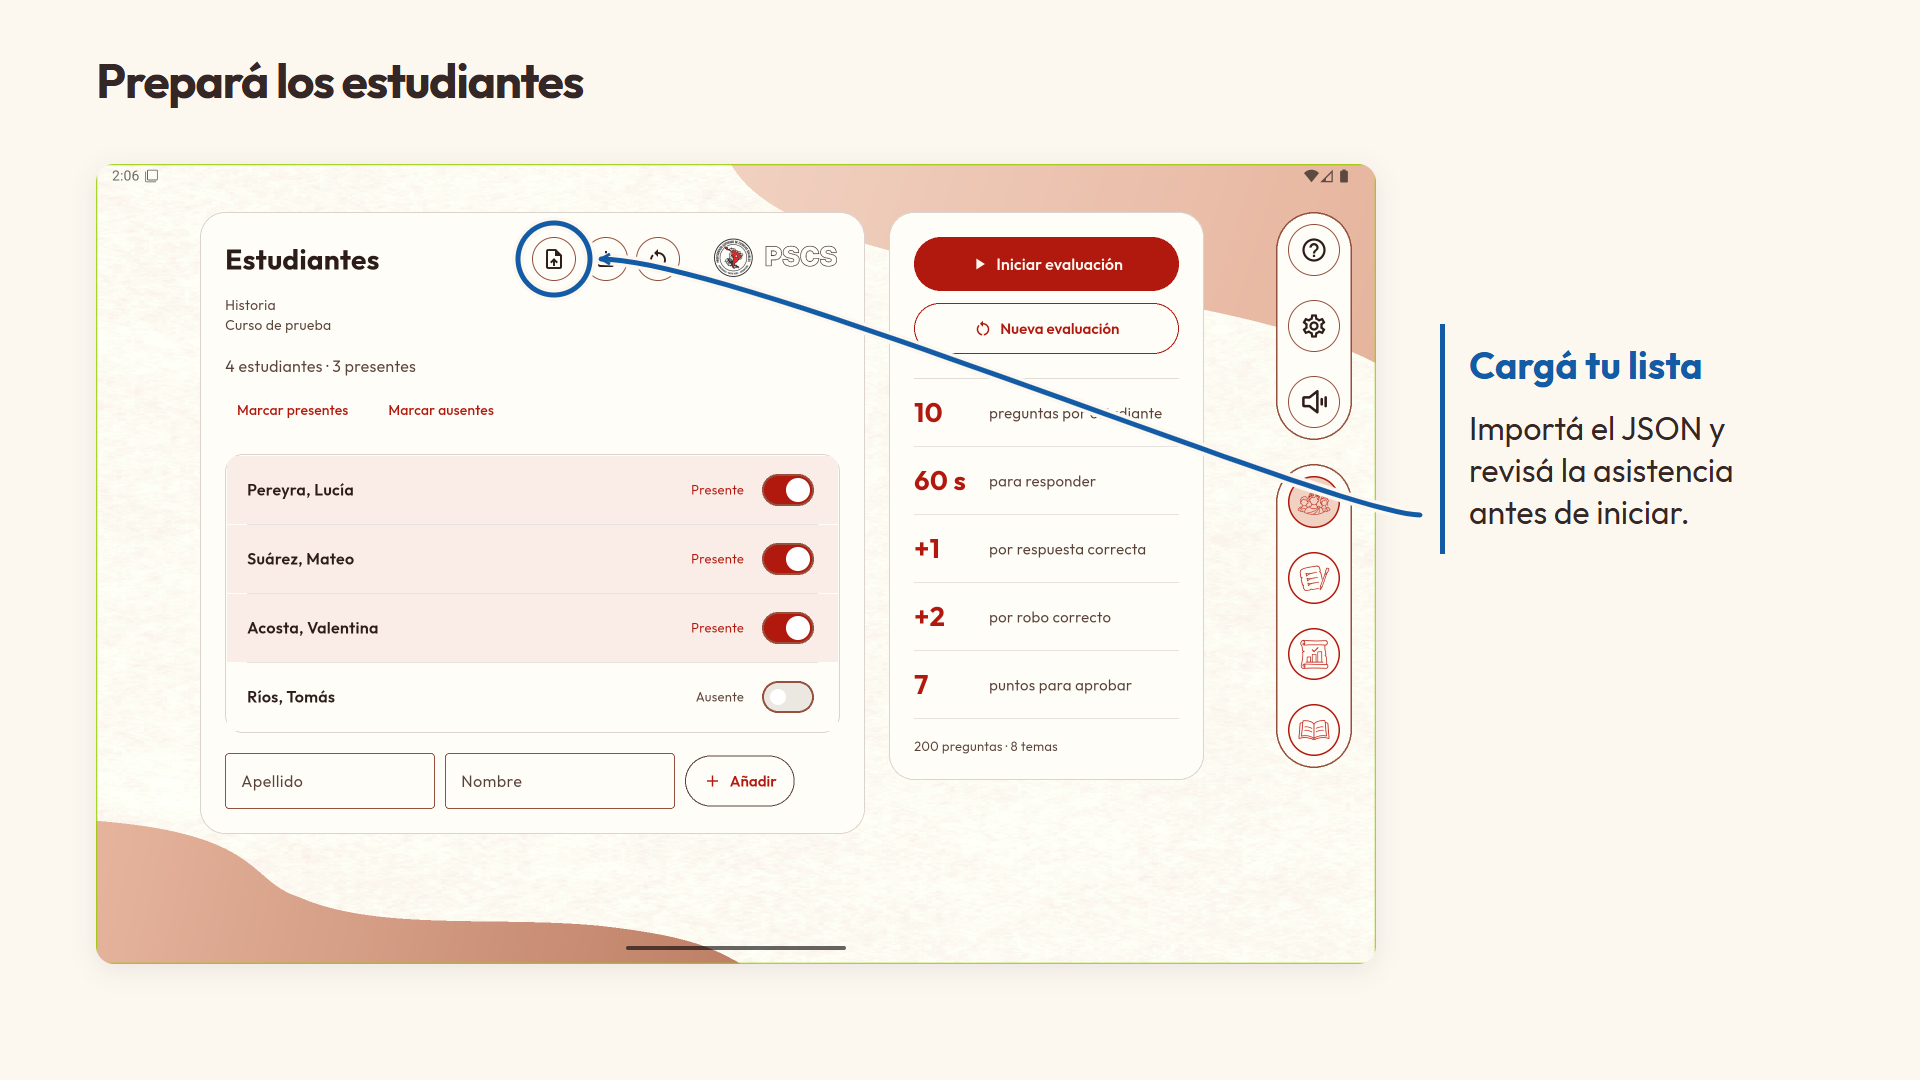
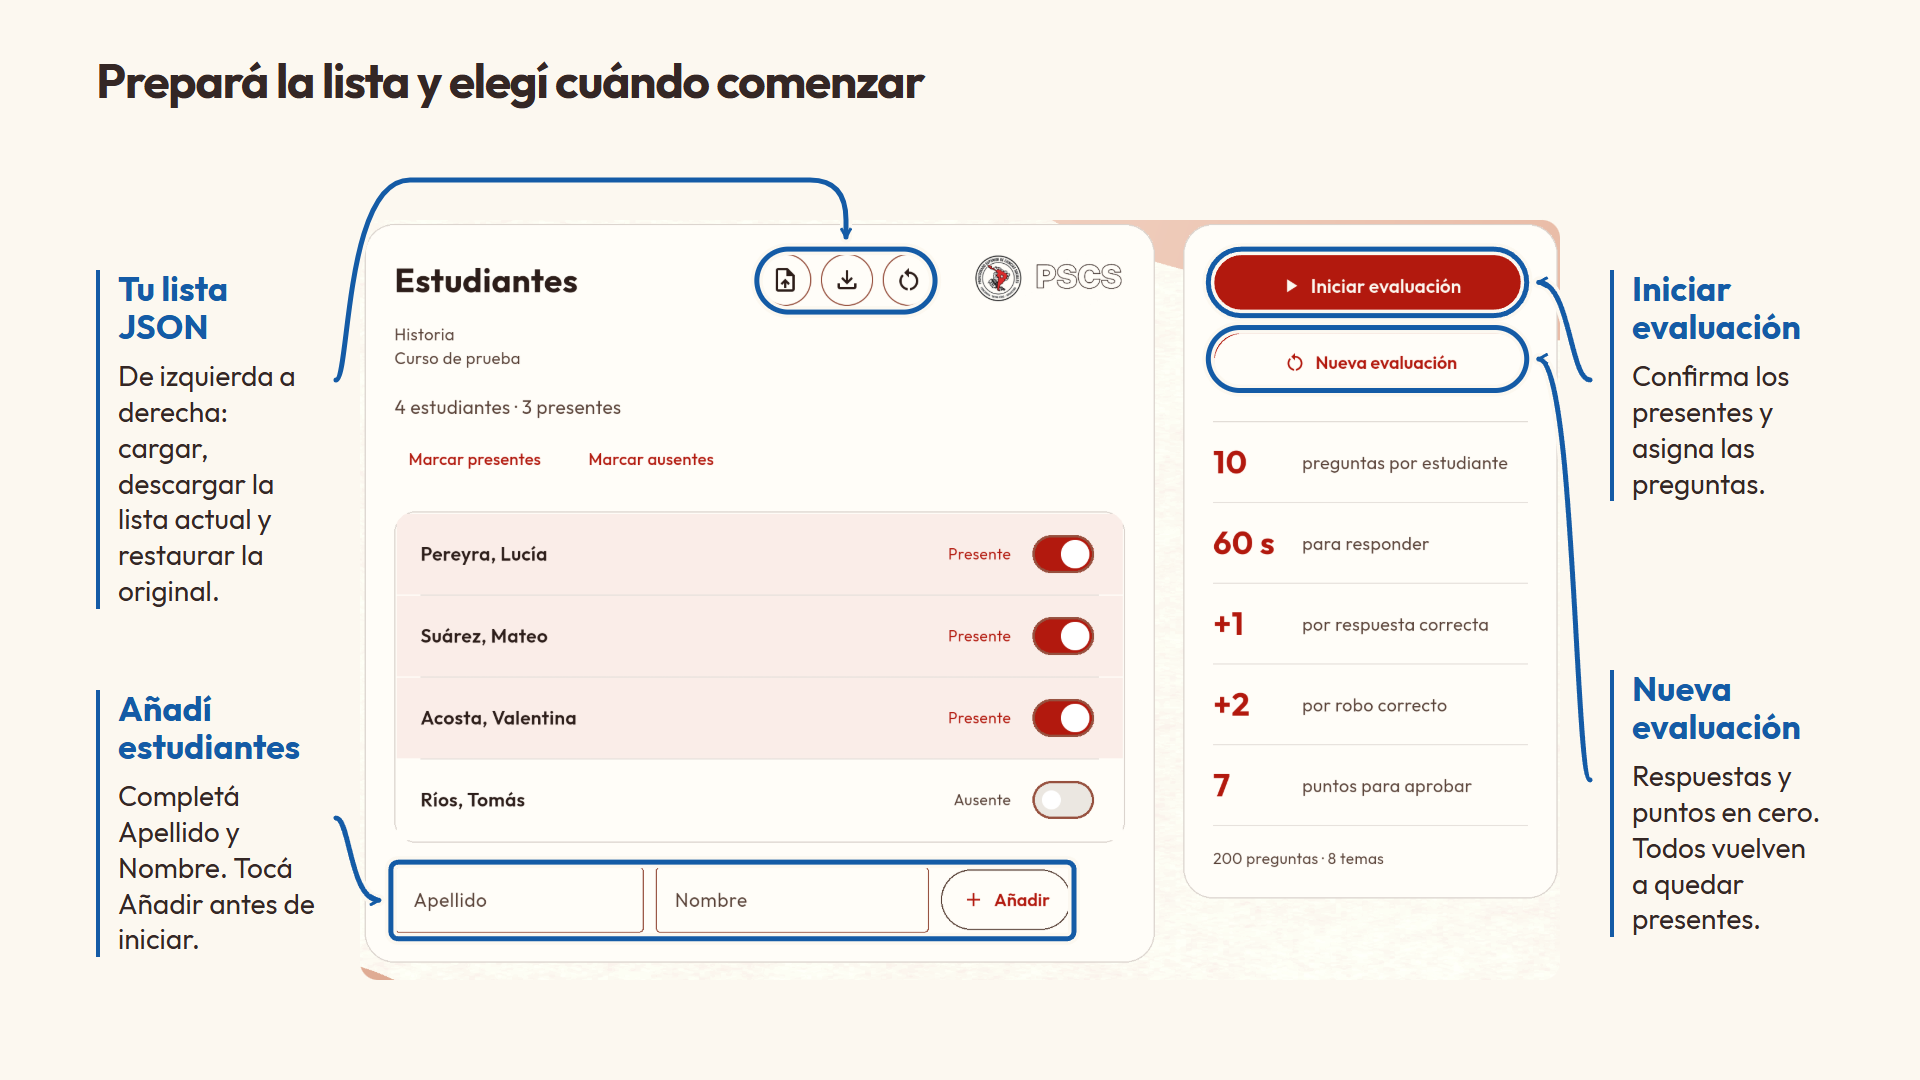
Trivia

diff --git a/README.md b/README.md
@@ -8,13 +8,21 @@ Se puede adaptar a distintas materias mediante bancos de preguntas propios. Incl
 
 Es **gratuita y funciona sin conexión**, sin cuentas, anuncios ni compras. Está diseñada para tabletas, tanto en horizontal como en vertical.
 
+## Ubicá las botoneras
+
+La cápsula de herramientas reúne **Cómo evaluar, Configuración y Sonidos**. La de navegación abre **Estudiantes, Evaluación, Resultados y Banco**; el fondo de color indica la sección seleccionada.
+
+![Botoneras ampliadas con la función de ayuda, configuración, sonido y las cuatro secciones](docs/guia-visual/herramientas-navegacion.png)
+
+Con una pregunta activa, en horizontal la navegación se acopla junto a la barra inferior. En vertical, los controles quedan al costado y los datos de quien responde se muestran sobre la pregunta. Las funciones son las mismas.
+
 ## Cómo se usa en clase
 
 ### 1. Prepará la evaluación
 
 Configurá la materia, el tema o unidad, la comisión, el docente y, si corresponde, el ayudante de cátedra. Podés elegir entre cinco paletas de colores.
 
-El **nombre corto** de la materia se usa en la cabecera; el nombre completo identifica la asignatura en los informes. La paleta se previsualiza al elegirla: **Guardar** aplica los cambios y **Cancelar** conserva la configuración anterior. Los aciertos y errores mantienen sus marcas verdes y rojas con cualquier paleta.
+El **nombre corto** de la materia se usa en la cabecera; el nombre completo identifica la asignatura en los informes. La paleta se previsualiza al elegirla: **Guardar** se habilita cuando hay cambios válidos y los aplica; **Cancelar** conserva la configuración anterior. Los aciertos y errores mantienen sus marcas verdes y rojas con cualquier paleta.
 
 ![Dónde configurar la materia, la unidad y los datos docentes](docs/guia-visual/configuracion.png)
 
@@ -22,7 +30,7 @@ El **nombre corto** de la materia se usa en la cabecera; el nombre completo iden
 
 En **Estudiantes**, revisá los nombres y marcá presentes y ausentes. Podés cargar una lista propia y corregir un nombre manteniendo presionada su fila. Antes de comenzar también se pueden eliminar estudiantes.
 
-![Cómo cargar la lista de estudiantes desde un archivo JSON](docs/guia-visual/estudiantes.png)
+![Controles de Estudiantes para cargar, descargar y restaurar la lista, añadir personas, iniciar o crear otra evaluación](docs/guia-visual/estudiantes.png)
 
 Cada fila tiene un interruptor de asistencia. Quienes figuran como ausentes quedan fuera del sorteo.
 
@@ -42,11 +50,21 @@ La app admite **hasta 20 estudiantes** y reserva **10 preguntas distintas para c
 
 Los turnos se sortean entre quienes están presentes y siguen participando, priorizando a quienes tuvieron menos preguntas. Cada estudiante recibe preguntas de su conjunto reservado.
 
+Después de iniciar la evaluación, tocá **Sortear siguiente turno** en la tarjeta central. La app elige la persona y muestra la pregunta con el reloj todavía sin iniciar.
+
+![Pantalla de sorteo con el botón Sortear siguiente turno y la explicación de quiénes participan](docs/guia-visual/sortear-turno.png)
+
 Leé el enunciado y las cuatro alternativas en voz alta. Después tocá **«Iniciar tiempo»**: hay **60 segundos** para responder, sin descontar el tiempo de lectura. El docente registra la opción elegida, de A a D.
+
+La barra muestra el **nombre**, sus **puntos acumulados**, el **avance de preguntas** y el **reloj**. **1/10** significa «primera pregunta propia del titular, de diez»; no es una nota. El botón de triángulo inicia el tiempo, el de salto registra **No contesta** y la flecha curva es **Deshacer**.
+
+![Barra antes de iniciar con siete referencias para nombre, puntos, avance, reloj, iniciar tiempo, no contesta y deshacer](docs/guia-visual/barra-lectura.png)
 
 La respuesta se registra con los **botones A–D de la barra**, usando la letra que aparece en pantalla. Las tarjetas de las alternativas son de lectura; la app baraja su orden al preparar la evaluación. Si una pregunta o su explicación ocupa más espacio, desplazá el contenido dentro de la tarjeta para leerlo completo.
 
 Mientras corre el tiempo, **tocá el reloj para pausarlo** y volvé a tocarlo para reanudar. El reloj también se pausa al salir de Evaluación, abrir la ayuda, la configuración o un informe, o dejar la app en segundo plano. Al volver, reanudalo cuando corresponda.
+
+![Comparación de la barra con tiempo en marcha y pausado, con A–D y el reloj señalados](docs/guia-visual/barra-respuesta-pausa.png)
 
 ### 3. Resolvé la respuesta y los robos
 
@@ -54,14 +72,31 @@ Si la respuesta es incorrecta, no contesta o se agota el tiempo, podés elegir a
 
 El selector ofrece estudiantes presentes que siguen participando, distintos del titular y de quienes ya intentaron robar esa pregunta. Elegí una persona y tocá **Iniciar robo**. Los robos **no tienen un nuevo cronómetro de 60 segundos** y no consumen las diez preguntas propias de quien roba. Las alternativas ya elegidas quedan marcadas y bloqueadas.
 
+Al elegir un candidato, la barra pasa a mostrar **su nombre y sus puntos**. Durante el robo conserva esos datos; al mostrar el resultado, corresponden a quien acaba de responder. El avance **1/10** sigue refiriéndose a la pregunta propia del titular.
+
+![Barra en espera de robo con selector, rayo y cierre; debajo, robo activo con una alternativa usada bloqueada](docs/guia-visual/barra-robo.png)
+
 La respuesta correcta y la explicación quedan disponibles para revisar al cerrar la pregunta. Después se puede avanzar al siguiente turno. **Deshacer** permite corregir un registro equivocado.
 
-| Control | Cuándo usarlo |
-| --- | --- |
-| **No contesta** | Registra que el titular no responde y pasa a los robos disponibles, sin esperar a que termine el reloj. |
-| **Cerrar pregunta** | Termina los robos pendientes sin ofrecer otro intento. Si no hay estudiantes habilitados o se agotan los dos robos, el cierre es automático. |
-| **Ver explicación / Volver a las opciones** | Alterna las dos caras de la pregunta una vez cerrada. |
-| **Deshacer última acción** | Vuelve a un paso anterior y recupera los puntos correspondientes. Si regresa a una pregunta con tiempo, queda pausada. No revierte las correcciones de nombres. |
+**Correcto** lleva una tilde verde; **Incorrecto** y **Sin respuesta**, una cruz. El resultado informa lo registrado. El **ojo** abre la explicación y se convierte en un botón de **giro** para volver a las opciones. La **flecha hacia la derecha** avanza al siguiente turno; la **flecha curva** deshace un paso.
+
+![Cuatro estados de revisión: correcto, incorrecto, sin respuesta y explicación abierta, con los controles correspondientes](docs/guia-visual/barra-revision.png)
+
+#### Qué controles aparecen en cada momento
+
+| Momento | Qué muestra la barra | Qué podés hacer |
+| --- | --- | --- |
+| **Lectura** | Nombre, puntos, avance y 01:00 sin descontar. | Iniciar tiempo, registrar No contesta o deshacer un paso disponible. |
+| **Respuesta con tiempo** | El reloj descuenta y aparecen A–D. | Registrar una alternativa, tocar el reloj para pausar o usar No contesta. |
+| **Pausa** | El reloj queda detenido y las letras siguen visibles. | Reanudar con el reloj o usar No contesta. A–D no registran respuestas mientras está pausado. |
+| **Espera de robo** | Persona con +, rayo y X. | Elegir estudiante, iniciar su robo o cerrar la pregunta sin más intentos. Si tocás el rayo sin candidato, abre el selector. |
+| **Robo en curso** | Nombre y puntos de quien roba, A–D y alternativas usadas en gris. | Registrar una opción disponible. No hay reloj nuevo; las alternativas ya elegidas están bloqueadas. |
+| **Revisión** | Correcto, Incorrecto o Sin respuesta; ojo y flecha de avance. | Abrir la explicación, avanzar al siguiente turno o deshacer un paso. |
+| **Explicación visible** | El texto explicativo y el botón de giro en lugar del ojo. | Volver a las opciones, avanzar o deshacer. |
+
+**No contesta** permite pasar a los robos sin esperar al vencimiento. **Cerrar pregunta** termina los robos pendientes; si no hay candidatos o se agotan los dos intentos, el cierre es automático. **Deshacer** recupera un paso anterior y sus puntos; si vuelve a una pregunta con tiempo, queda pausada. No revierte correcciones de nombres y solo está disponible cuando hay un paso al que volver.
+
+El estado **Sin respuesta** puede corresponder a No contesta o a tiempo agotado; el PDF distingue las dos situaciones. El ojo permanece oculto mientras haya intentos pendientes. Los avisos de aprobación y nota máxima se explican en **Cómo se puntúa**.
 
 ![Un turno de Trivia: iniciar el tiempo, registrar una respuesta, abrir un robo y revisar la explicación](docs/guia-visual/trivia-turno.gif)
 
